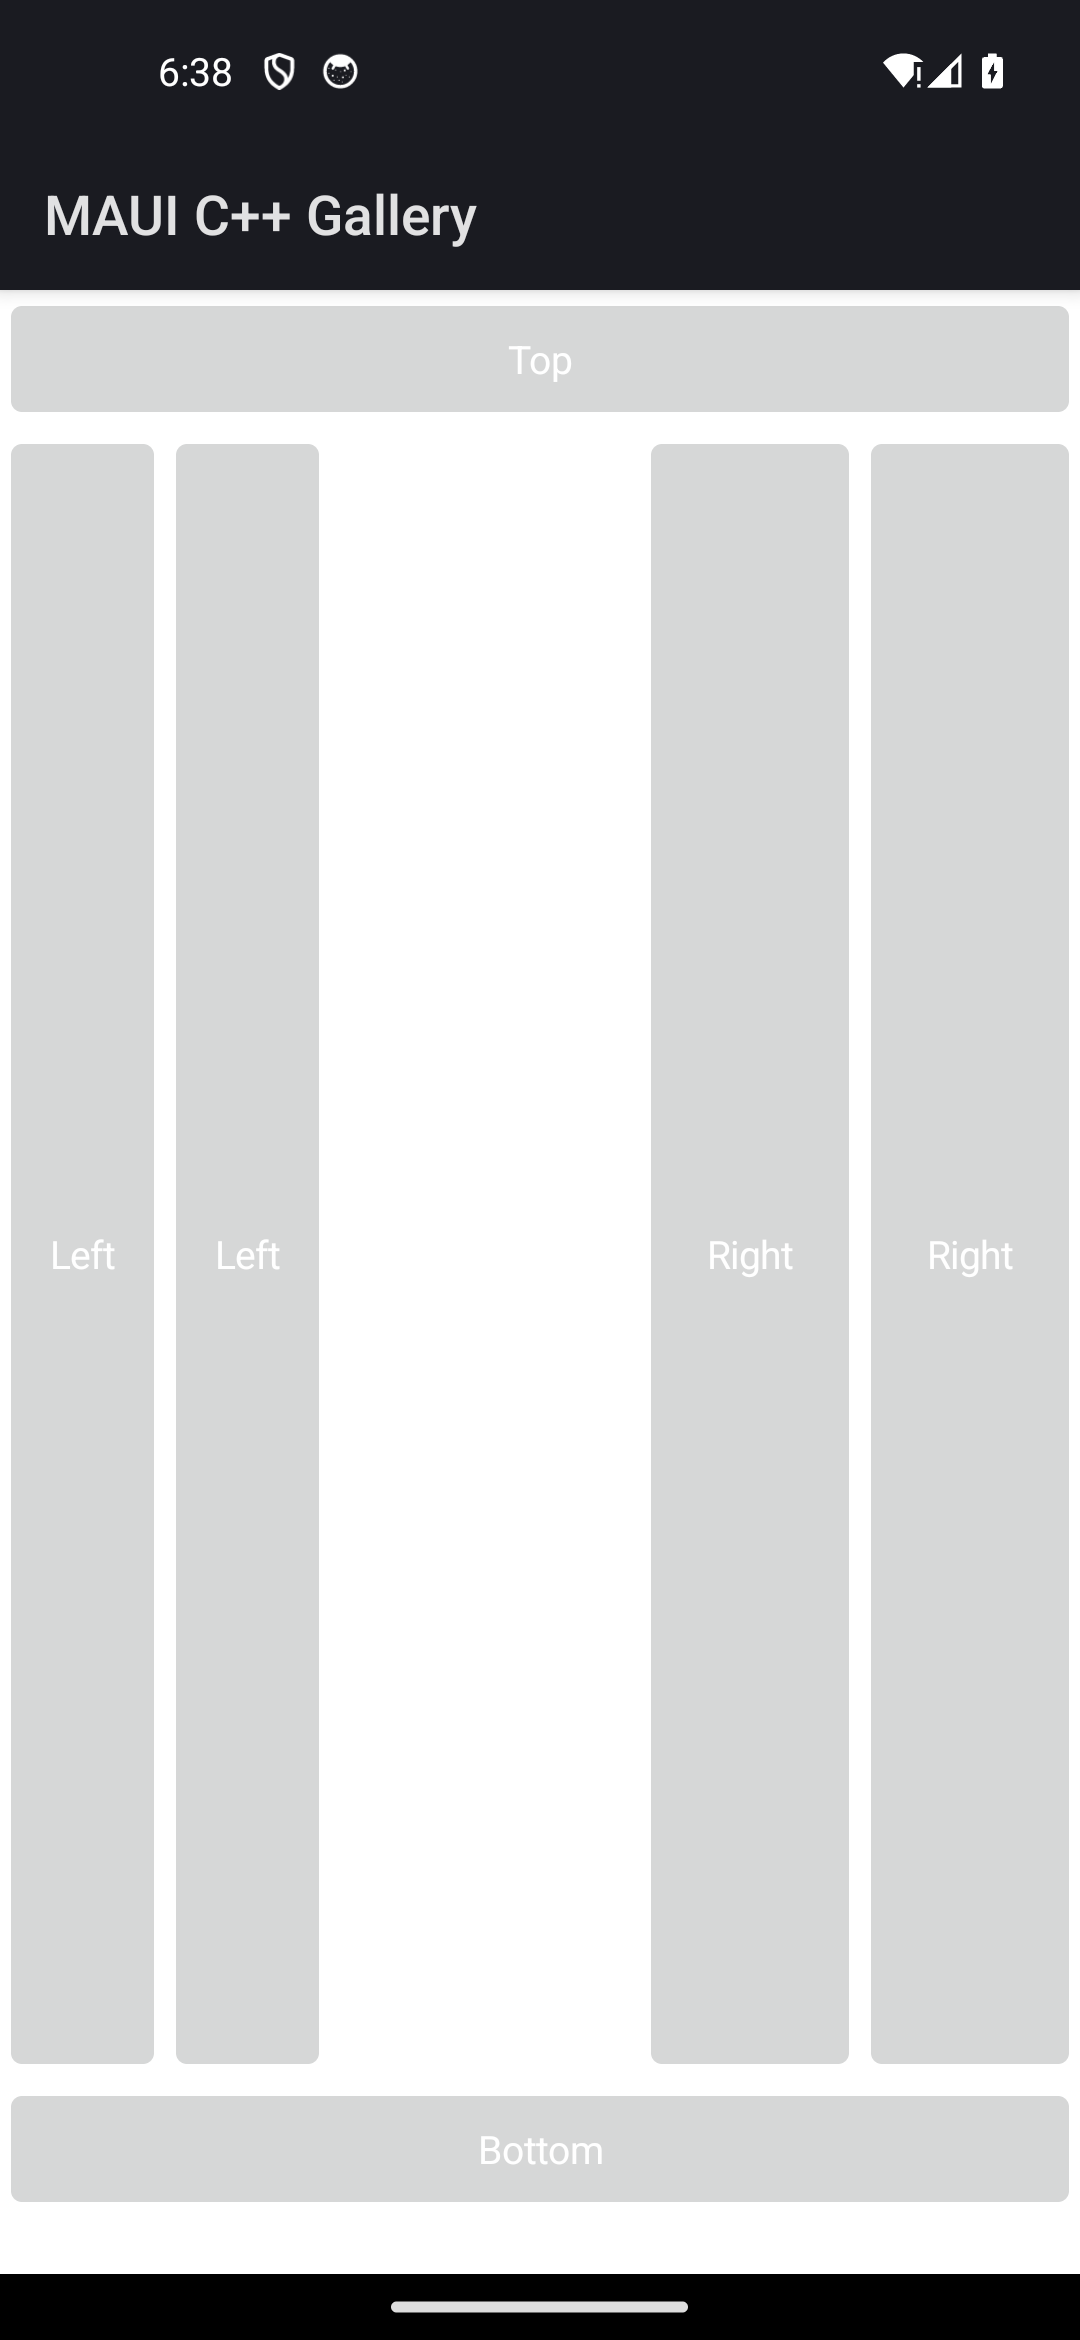
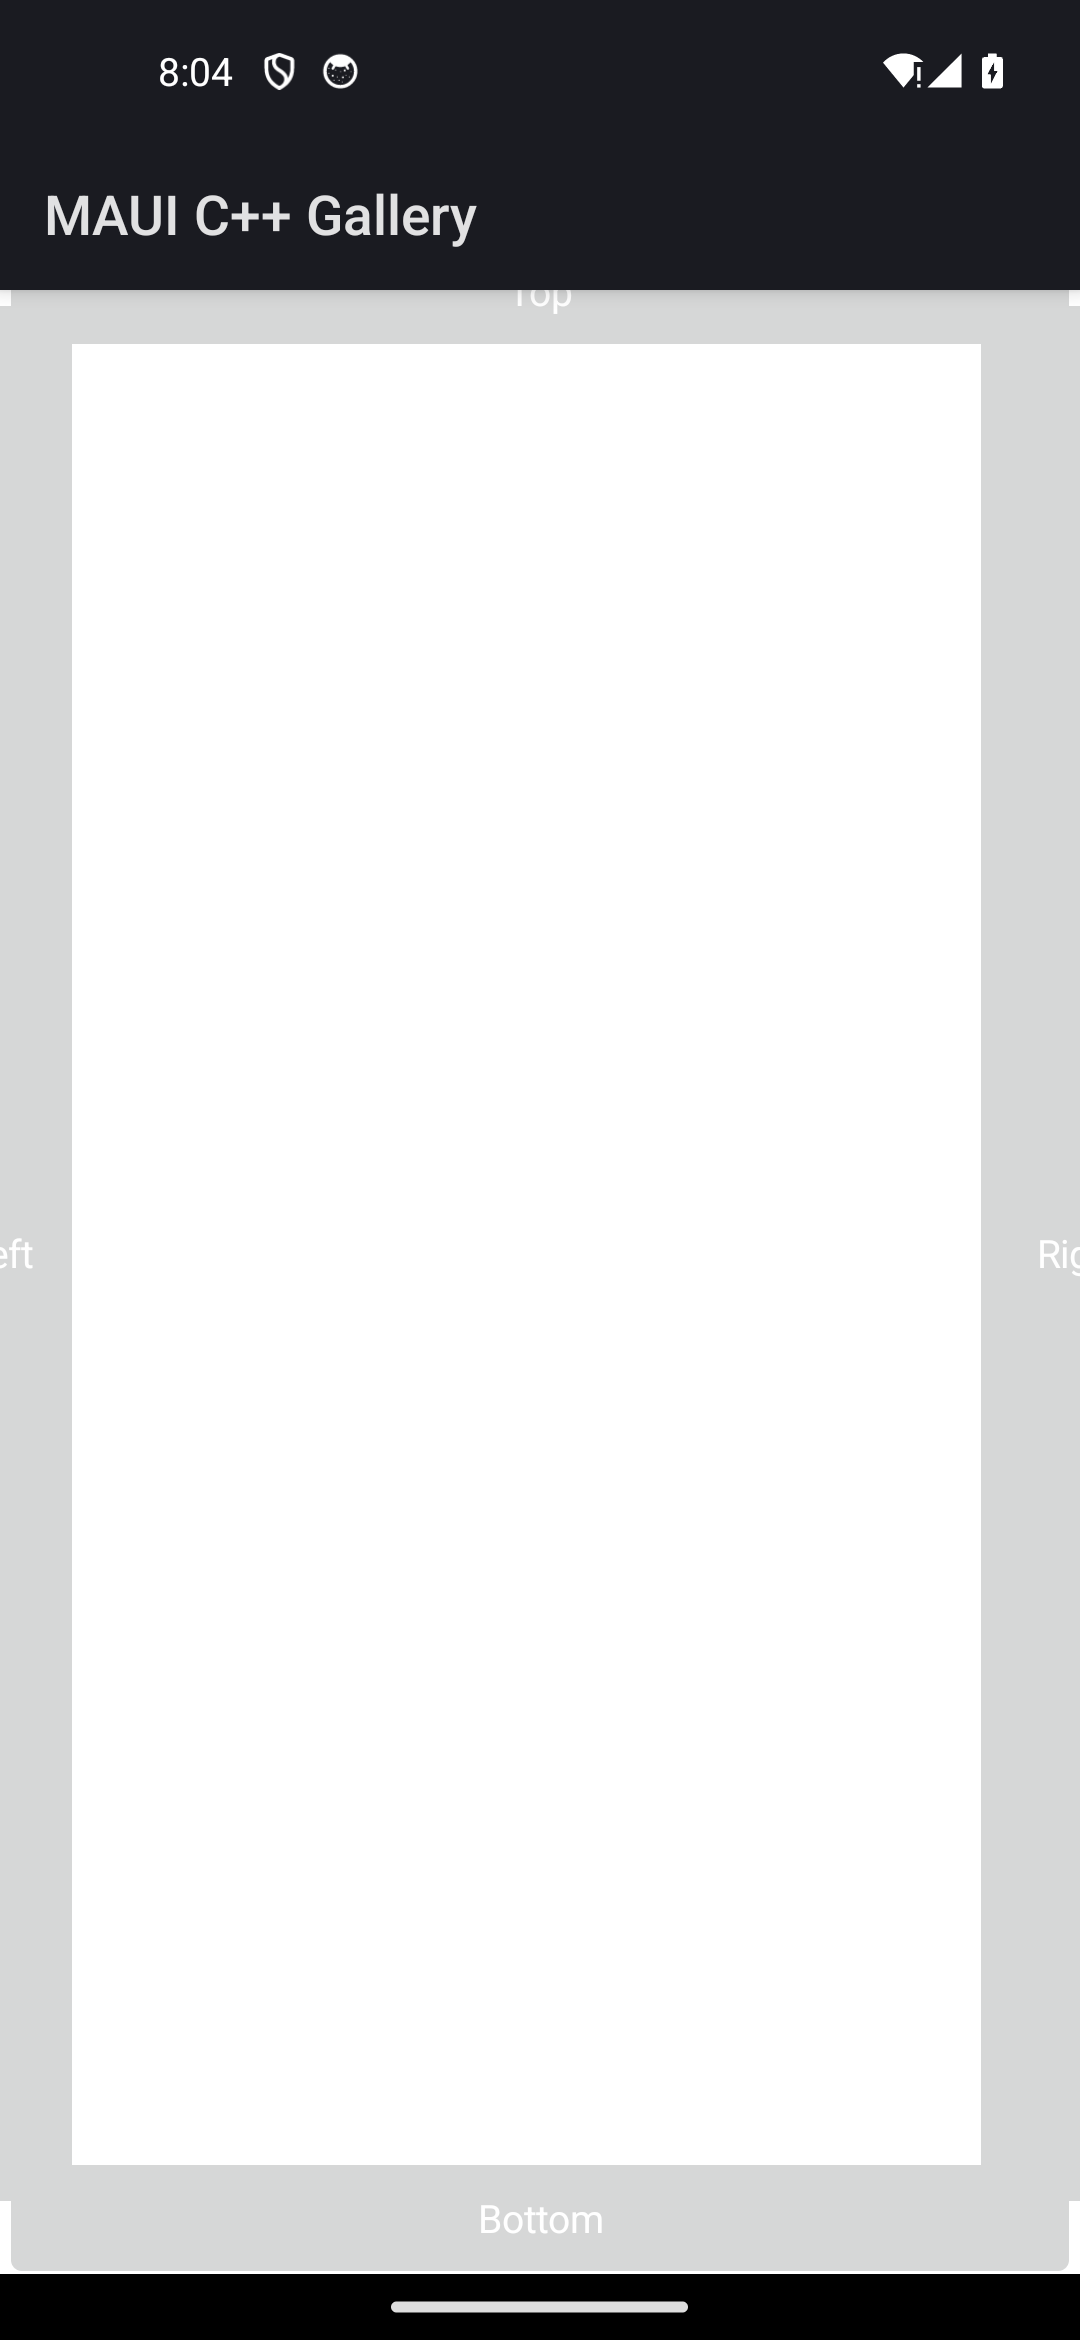
fix(gallery,parity): custom_layout dock arrange matches MAUI (zero-size slivers, not wide panels)
The port's DockLayoutManager.arrange_children read child.desired_size() for the
per-child request; the real C# sample reads `Size request = sizeRequest;` where
sizeRequest is Size.Zero and is never reassigned to child.DesiredSize. That makes
childWidth/childHeight = min(remaining, 0) = 0, so MAUI docks every child as a
zero-size sliver (only its native button chrome / clipped label is visible) and
the content-page background fills the wide center.

An earlier port revision 'corrected' the apparent C# bug by reading desired_size(),
producing WIDE solid Left(60)/Right(80) panels + thin center — the exact inverse of
MAUI (Android parity RED). Per parity policy 1, MAUI's render is ground truth; match
the C# line-for-line. Android cpp capture now shows thin edge slivers + wide white
center, matching docs/comparison/android/maui/custom_layout.png.

Emulator-verified on emulator-5554; headless layout suite 174/174.

diff --git a/port/cpp/examples/gallery/pages/custom_layout_page.hpp b/port/cpp/examples/gallery/pages/custom_layout_page.hpp
@@ -193,7 +193,16 @@ namespace maui::samples
 
                 double child_x = 0;
                 double child_y = 0;
-                const maui::graphics::size request = child.desired_size(); // == sizeRequest read in C#
+                // C# reads `Size request = sizeRequest;` — and sizeRequest is Size.Zero (never reassigned
+                // to child.DesiredSize). So request is (0,0) in the real sample: this looks like a bug in
+                // the user's DockLayoutManager, but MAUI's actual render IS the ground truth (parity policy
+                // §1), and it renders every docked child as a zero-size sliver (a thin edge whose only
+                // visible mark is the native button chrome / clipped label). An earlier port revision
+                // "fixed" this by reading desired_size(), which produced WIDE solid Left/Right panels and a
+                // narrow center — the opposite of MAUI. Match the C# line-for-line: request is the zero
+                // size_request, so child_width/child_height start at 0 (a dock case may override one axis
+                // to the full remaining width/height, but never both).
+                const maui::graphics::size request = size_request; // C#: `Size request = sizeRequest;` (== Size.Zero)
                 double child_width = std::min(width, request.width);
                 double child_height = std::min(height, request.height);
 
